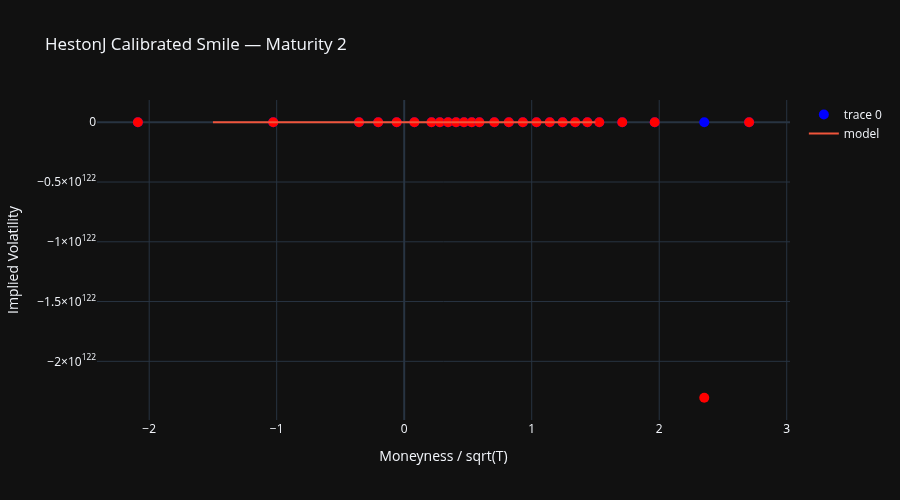
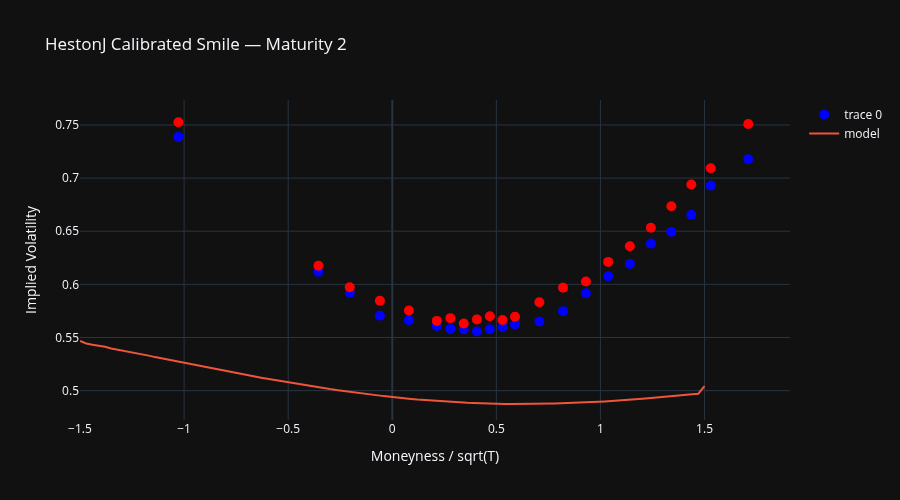
build images before

diff --git a/quantflow/options/calibration.py b/quantflow/options/calibration.py
@@ -201,7 +201,7 @@ class VolModelCalibration(BaseModel, ABC, Generic[M], arbitrary_types_allowed=Tr
     ) -> Any:
         """Plot the implied volatility for market and model prices"""
         cross = self.vol_surface.maturities[index]
-        options = tuple(self.vol_surface.option_prices(index=index))
+        options = tuple(self.vol_surface.option_prices(index=index, converged=True))
         cross = self.vol_surface.maturities[index]
         model = self.pricer.maturity(cross.ttm(self.ref_date))
         if max_moneyness_ttm is not None:

diff --git a/docs/tutorials/volatility_surface.md b/docs/tutorials/volatility_surface.md
@@ -132,11 +132,11 @@ down-weights near-expiry options.
 ### Plotting the Calibrated Smile
 
 Use [plot()][quantflow.options.calibration.VolModelCalibration.plot] to produce a
-Plotly figure overlaying market bid/ask implied vols against the model smile, then
-export it to PNG with `write_image`:
+Plotly figure overlaying market bid/ask implied vols against the model smile:
 
 ```python
---8<-- "docs/examples/vol_surface_heston_plot.py"
+fig = calibration.plot(index=1, max_moneyness_ttm=1.5, support=101)
+fig.write_image("heston_calibrated_smile.png", width=900, height=500)
 ```
 
 ![Heston calibrated smile](../assets/heston_calibrated_smile.png)
@@ -160,11 +160,11 @@ which captures asymmetric jump behaviour common in equity and crypto markets.
 ### Plotting the Calibrated Smile
 
 Use [plot()][quantflow.options.calibration.VolModelCalibration.plot] to produce a
-Plotly figure overlaying market bid/ask implied vols against the model smile, then
-export it to PNG with `write_image`:
+Plotly figure overlaying market bid/ask implied vols against the model smile:
 
 ```python
---8<-- "docs/examples/vol_surface_hestonj_plot.py"
+fig = calibration.plot(index=1, max_moneyness_ttm=1.5, support=101)
+fig.write_image("hestonj_calibrated_smile.png", width=900, height=500)
 ```
 
 ![HestonJ calibrated smile](../assets/hestonj_calibrated_smile.png)
